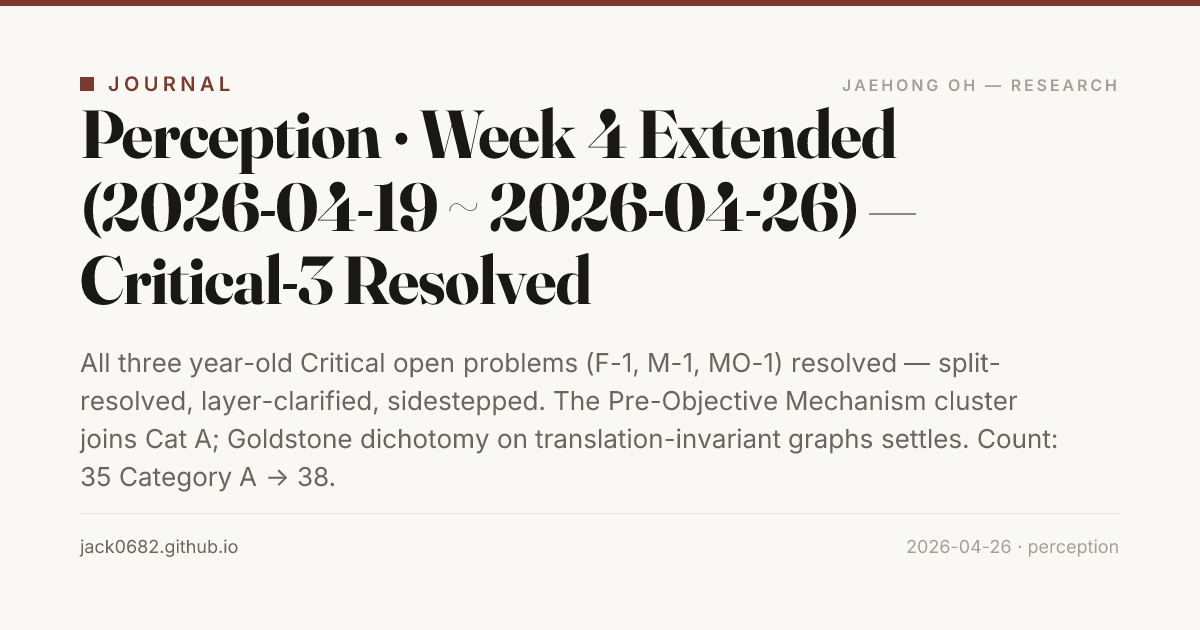
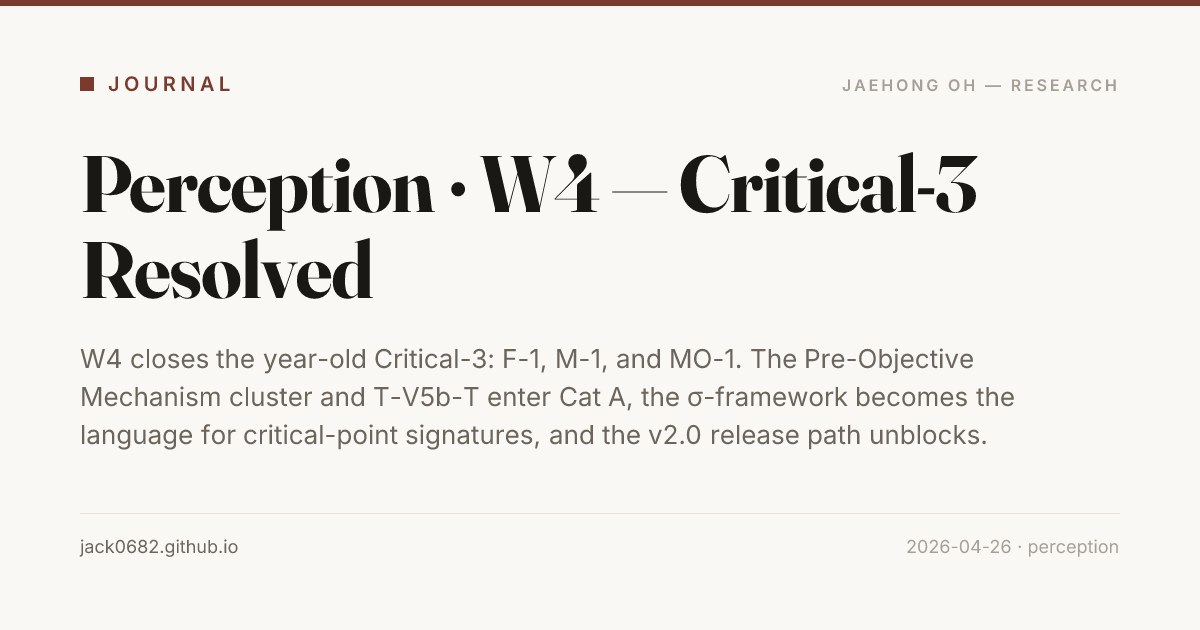
hotfix_update

Changed region(s): [[0.0617, 0.1508, 0.8325, 0.4825], [0.0617, 0.5429, 0.8942, 0.7841]]

diff --git a/lib/content.ts b/lib/content.ts
@@ -16,16 +16,19 @@ import {
 const published = <T extends { draft?: boolean }>(items: readonly T[]) =>
   items.filter((x) => !x.draft);
 
+const byDateDesc = <T extends { date: string }>(a: T, b: T) =>
+  Date.parse(b.date) - Date.parse(a.date) || b.date.localeCompare(a.date);
+
 export const journalEntries = published(_journal).sort((a, b) =>
-  b.date.localeCompare(a.date),
+  byDateDesc(a, b),
 );
 
 export const papers = published(_papers).sort((a, b) =>
-  b.date.localeCompare(a.date),
+  byDateDesc(a, b),
 );
 
 export const posts = published(_posts).sort((a, b) =>
-  b.date.localeCompare(a.date),
+  byDateDesc(a, b),
 );
 
 export const researchTracks = [..._research].sort(
@@ -70,7 +73,7 @@ export const recentWriting = [
     permalink: p.permalink,
     summary: p.summary,
   })),
-].sort((a, b) => b.date.localeCompare(a.date));
+].sort((a, b) => byDateDesc(a, b));
 
 /* ──────────────────────────────────────────────────────────────
    Cross-reference indexes.
@@ -186,7 +189,17 @@ export function crossRefsFor(slug: string) {
 export const sccHub = (() => {
   const part0 = notesForPart(0);
   const canonical = part0.filter((n) => n.kind === "canonical");
-  const roadmap = part0.filter((n) => n.kind === "roadmap");
+  const roadmapNotes = part0
+    .filter((n) => n.kind === "roadmap")
+    .map((n) => ({ ...n, roadmapKind: "status" as const }));
+  const weeklyRoadmap = journalEntries
+    .filter((e) => e.track === "perception" && e.kind === "weekly")
+    .map((e) => ({ ...e, roadmapKind: "weekly" as const }));
+  const roadmap = [...roadmapNotes, ...weeklyRoadmap].sort((a, b) => {
+    const aDate = a.roadmapKind === "weekly" ? a.date : (a.updated ?? "");
+    const bDate = b.roadmapKind === "weekly" ? b.date : (b.updated ?? "");
+    return bDate.localeCompare(aDate);
+  });
   const overview = part0.filter((n) => n.kind === "overview");
   const theorems = allNotes.filter((n) => n.kind === "theorem");
 

diff --git a/app/scc/page.tsx b/app/scc/page.tsx
@@ -103,7 +103,13 @@ export default function SccHubPage() {
               href={n.permalink}
               title={n.title}
               summary={n.summary}
-              meta={n.updated ? `updated ${formatDate(n.updated)}` : undefined}
+              meta={
+                n.roadmapKind === "weekly"
+                  ? `weekly · ${formatDate(n.date)}`
+                  : n.updated
+                    ? `updated ${formatDate(n.updated)}`
+                    : undefined
+              }
             />
           ))
         )}
@@ -281,4 +287,3 @@ function Placeholder({ text }: { text: string }) {
     </li>
   );
 }
-

diff --git a/velite.config.ts b/velite.config.ts
@@ -83,6 +83,7 @@ const journal = defineCollection({
       title: s.string().max(160),
       slug: s.slug("journal"),
       date: s.isodate(),
+      kind: s.enum(["weekly"]).optional(),
       summary: s.string().max(320).optional(),
       tags: s.array(s.string()).default([]),
       track: s
